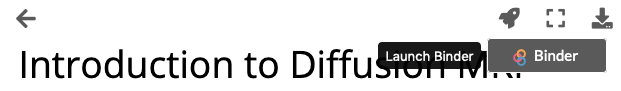
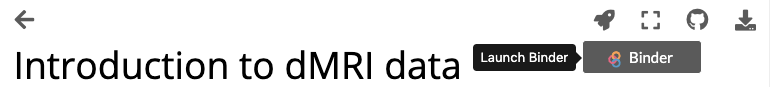
fix spacing

Changed region(s): [[0.0, 0.3956, 0.9791, 0.8791], [0.7649, 0.0659, 1.0, 0.3297], [0.0, 0.0879, 0.0612, 0.3077]]

diff --git a/docs/tutorial/data.md b/docs/tutorial/data.md
@@ -92,9 +92,11 @@ dmri_dataset = DWI(gradients=np.random.normal(size=(4, 64)))
 # Let's call Python's built-in len() function
 print(len(dmri_dataset))
 ```
+
 The output of this `print()` statement is telling us that this (simulated) dataset has 64 diffusion weighted samples.
 
 ## Using the new data representation object
+
 For simplicity, we will be using the full implementation of the `DWI` class from our [`eddymotion` package](https://github.com/nipreps/EddyMotionCorrection/blob/57c518929146b23cc9534ab0b2d024aa136e25f8/emc/dmri.py)
 Under the `data/` folder of this book's distribution, we have stored a sample DWI dataset with filename `dwi.h5`.
 Please note that the file has been minimized by zeroing all but two diffusion weighted orientation maps.
@@ -108,10 +110,12 @@ from eddymotion.dmri import DWI
 dmri_dataset = DWI.from_filename("../../data/dwi.h5")
 print(len(dmri_dataset))
 ```
+
 In this case, the dataset is reporting to have 102 diffusion weighted samples.
 
 Python will automatically generate a summary of this object if we just issue the name of our new object.
 This pretty-printing of the object informs us about the data and metadata that together compose this particular DWI dataset:
+
 ```{code-cell} python
 dmri_dataset
 ```
@@ -119,6 +123,7 @@ dmri_dataset
 ### Visualizing the data
 
 The fully-fledged `DWI` object has a convenience function to plot the dataset:
+
 ```{code-cell} python
 dmri_dataset.plot_mosaic();
 ```
@@ -128,11 +133,13 @@ This *b=0* reference is a map of the signal measured ***without gradient sensiti
 The *b=0* map can be used by diffusion modeling as the reference to quantify the signal drop at every voxel and given a particular orientation gradient.
 
 We can also get an insight of how a diffusion weighted orientation looks like by selecting them with the argument `index`:
+
 ```{code-cell} python
 dmri_dataset.plot_mosaic(index=10);
 ```
 
 or:
+
 ```{code-cell} python
 dmri_dataset.plot_mosaic(index=100);
 ```
@@ -146,6 +153,7 @@ Our `DWI` object stores the gradient information in the `gradients` attribute:
 ```{code-cell} python
 dmri_dataset.gradients.shape
 ```
+<<<<<<< HEAD
 
 ### The *LOGO* (leave-one-gradient-out) splitter
 One final behavior that will make our endeavor easier in the long run is a convenience method for data splitting.
@@ -212,3 +220,5 @@ plot_dwi(data_test[0], dmri_dataset.affine, gradient=data_test[1]);
 
 where `data_train` is a tuple containing all DW volumes and corresponding gradient table excluding the left-out, which is store in `data_test`.
 Consequently, `data_test[0]` contains the held-out DW map and `data_test[1]` the corresponding gradient vector (RAS+B format).
+=======
+>>>>>>> fix spacing

diff --git a/docs/preparation/step0.md b/docs/preparation/step0.md
@@ -1,19 +1,22 @@
 # Before we start: How to follow this tutorial
+
 This tutorial contains a mix of lecture-based and interactive components.
 The interactive components can be executed in your personal computer locally or using the Binder service.
 You are welcome to follow along however you like, whether you just want to listen or code along with us.
 Each of the chapters involving code are actually Jupyter notebooks!
 
 ## Using Binder
+
 Clicking the Binder icon in the top right corner will launch an interactive computing environment with all of the necessary software packages pre-installed.
 
-```{figure} images/binder_link.png
+```{figure} ../images/binder_link.png
 :name: binder_link
 
 Binder Link
 ```
 
 ## Local installation ("bare-metal")
+
 If you would like to follow along using your own setup and you have a functional Python environment, you can:
 
 ```bash
@@ -30,3 +33,4 @@ jupyter lab
 ```
 
 ## Local installation ("docker containers")
+
